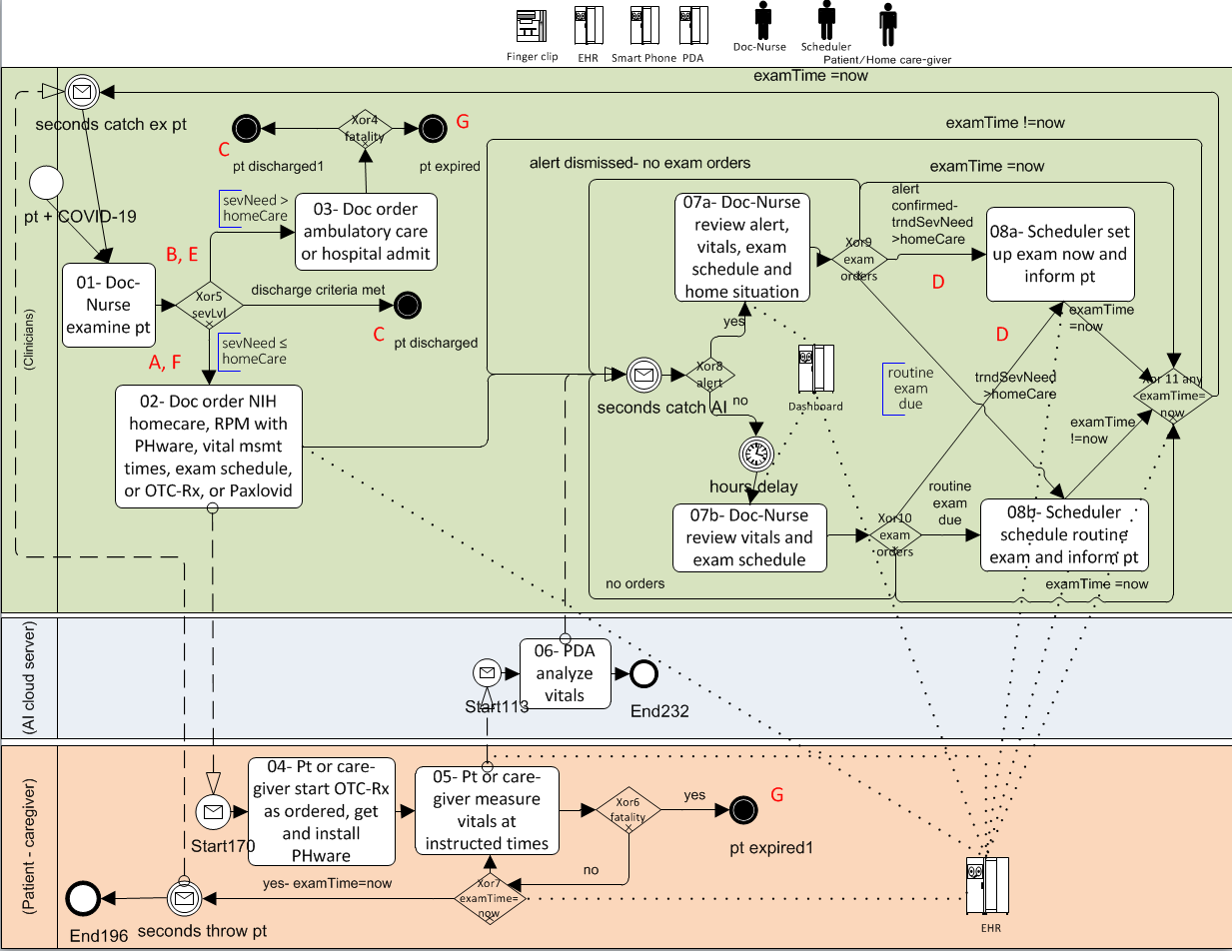
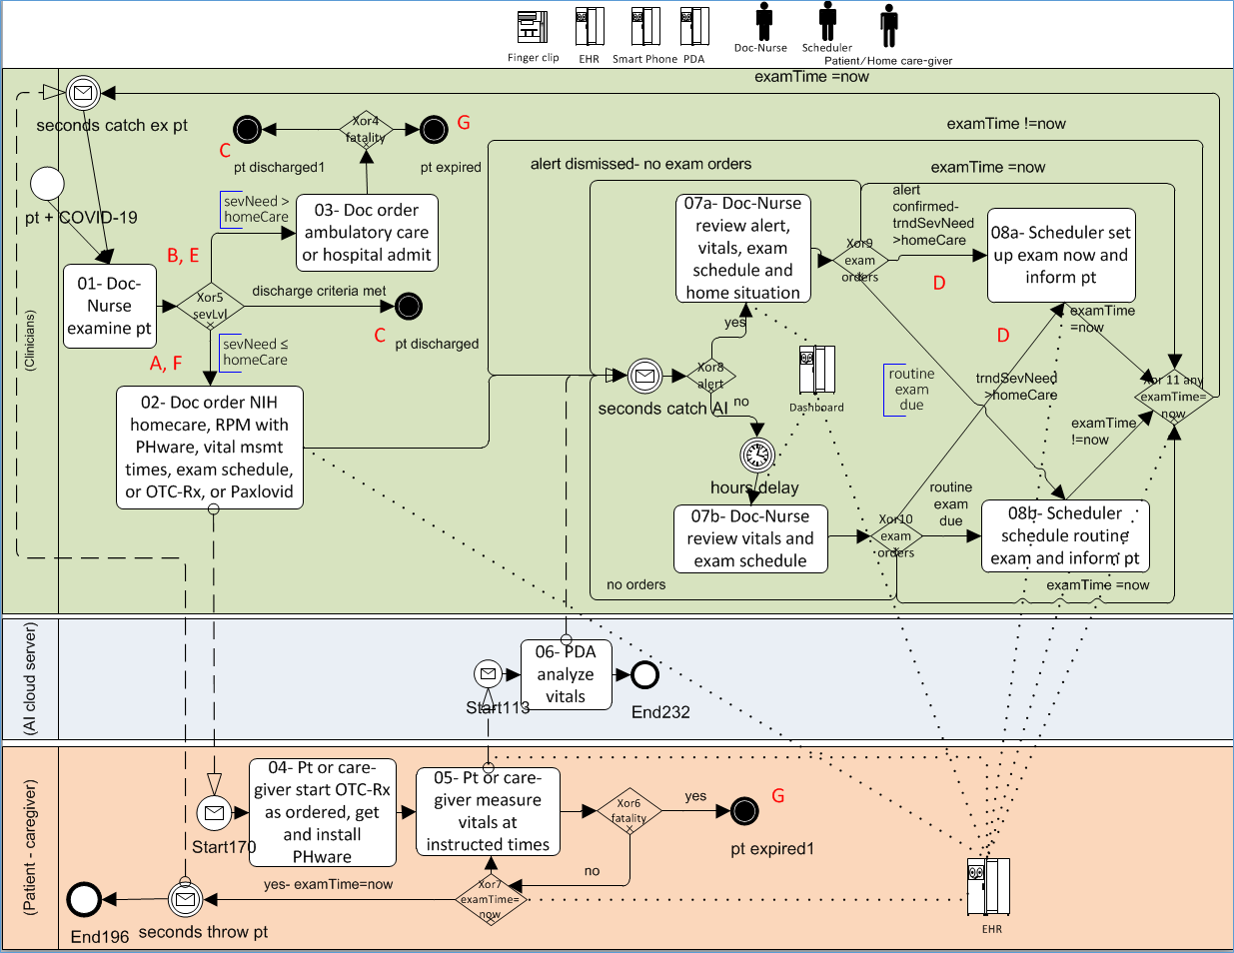
Add minor revisions to intro, figures, and hyperlinks.

diff --git a/paper/intro.tex b/paper/intro.tex
@@ -8,6 +8,7 @@ The capability to integrate human cognition with machine reasoning and then veri
 
 Our proof-of-technology is illustrated by a case-study of telehealth augmented by \emph{remote patient monitoring} (RPM).
 Although telehealth has rapidly gained acceptance for improving accessibility \cite{Medicare} and reducing transmission rates \cite{10.1093/jamia/ocaa067} the remote and asynchronous context of telehealth also introduces risk that patients' conditions may deteriorate before physicians can be aware and intervene \cite{10.1097/ALN.0000000000003578}.
+The experience of this integrated design process makes clear the difficulty of reasoning about even simple systems without a verification tool.
 
 Bionous \phware\textsuperscript{\textregistered} is an application under development to enhance the telehealth safety of COVID-19 patients with RPM of their vital signs \cite{Phware}.
 \phware\ measures and streams seven vital signs: temperature, oxygen saturation, respiration rate, pulse and its variability, and dia/systolic blood pressures.
@@ -25,8 +26,8 @@ The following section defines \emph{actionable risk awareness} as the CWP for \p
 The results of the SPIN verification are given in \secref{sec:results}.
 
 The original finite state model, the BPMN model, and full Promela model, with the LTL properties for the CWP, are in a public Github repository \cite{repo}.
-The \texttt{README.md} file summarizes its content and how to use SPIN to verify the model. 
-The experience of this integrated design process makes clear the difficulty of reasoning about even simple systems without a verification tool.
+The \texttt{README.md} file summarizes its content and how to use SPIN to verify the model.
+The figure titles in the electronic version of this manuscript link to equivalent, but larger and easier to read, versions in that repository.
 
 % The intentions of the detailed case study are to show the viability of augmenting workflows with CWP for functional integration and model checking, and to illustrate the value for automated reasoning in any design environment.
 % SPIN worked effectively and efficiently in this project in terms of performance and iterative design analysis.

diff --git a/paper/cwp.tex b/paper/cwp.tex
@@ -31,6 +31,6 @@ As presented next, this technical independence also allows the logical content o
       \includegraphics[width=3.35in, height=4in]{cwp.png}
     \end{tabular}
   \end{center}
-\caption{The \href{https://github.com/ericmercer/SPIN-bpmn-cwp-verification-paper/blob/main/26-Oct-2021-CWP.png}{CWP} for remote COVID-19 patient care.}
+\caption{The \href{https://github.com/ericmercer/SPIN-bpmn-cwp-verification-paper/blob/main/16-Feb-2022-CWP.png}{CWP} for remote COVID-19 patient care.}
 \label{fig:cwp}
 \end{figure}

diff --git a/paper/workflow.tex b/paper/workflow.tex
@@ -4,7 +4,7 @@
       \includegraphics[width=7in]{bpmn.png}
     \end{tabular}
   \end{center}
-\caption{The \href{https://github.com/ericmercer/SPIN-bpmn-cwp-verification-paper/blob/main/26-Oct-2021-BPMN.png}{workflow model} for the \phware\ system.}
+\caption{The \href{https://github.com/ericmercer/SPIN-bpmn-cwp-verification-paper/blob/main/16-Feb-2022-BPMN-resources.png}{workflow model} for the \phware\ system.}
 \label{fig:bpmn}
 \end{figure*}
 
